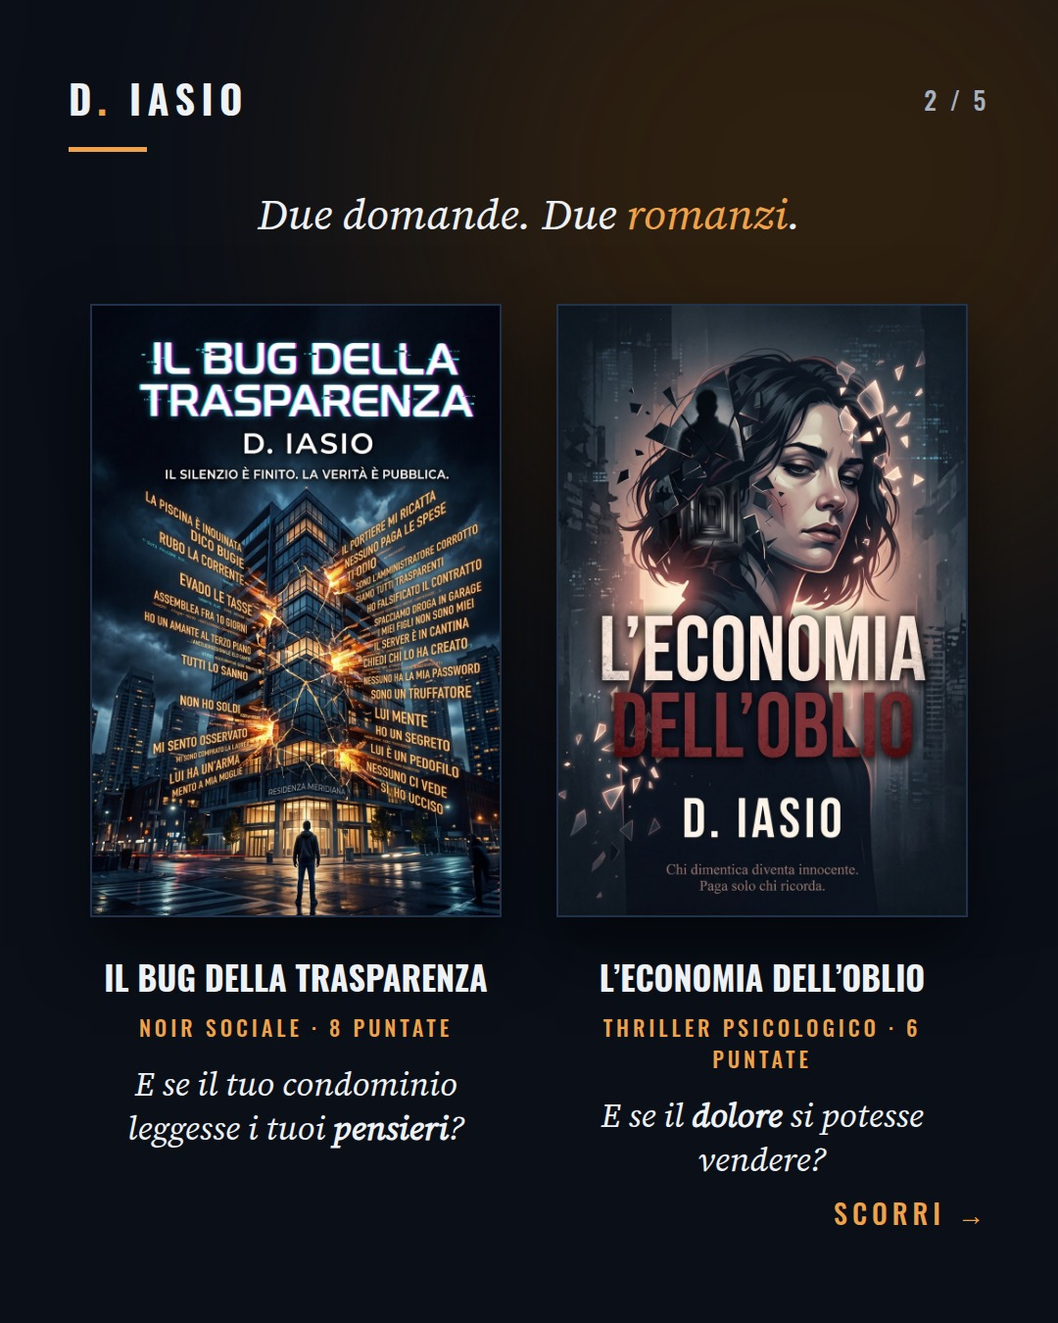
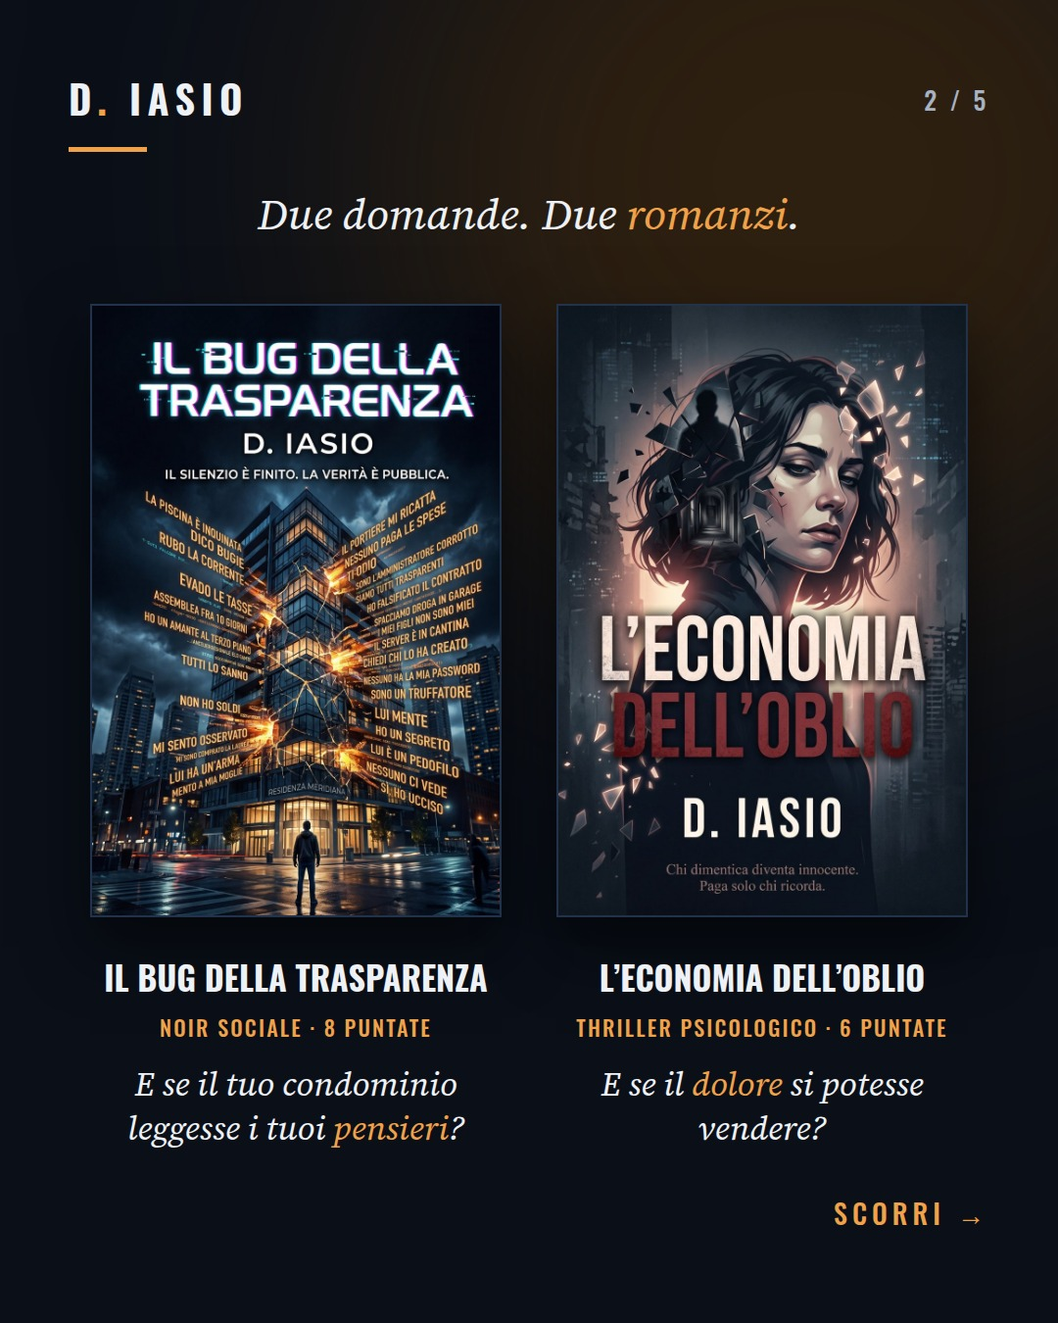
Storie (13) e post di testo (6, Facebook) automatizzati, correzioni ai layout con copertine
- publish.py: tipo storia (Instagram STORIES, Facebook photo_stories) e testo (solo Facebook), campo piattaforme
- carousel.py: formato 1080x1920 con zone sicure, layout copertine corretto
- test con API simulate estesi, README e STRATEGIA aggiornati

Claude-Session: https://claude.ai/code/session_013QU4e7TiB937KzZFo2r1F3

diff --git a/social/tools/carousel.py b/social/tools/carousel.py
@@ -66,11 +66,17 @@ body{width:1080px;height:1350px;background:var(--bg);color:var(--ink);font-famil
 .foot .h{font:400 24px 'Source Serif 4';color:var(--mut);margin-top:14px}.amber .foot .u,.amber .foot .h{color:var(--dark)}
 .covers{display:flex;gap:56px;justify-content:center;margin-top:10px}.cv{width:420px;text-align:center}
 .cv img{width:420px;height:626px;object-fit:cover;box-shadow:0 30px 60px rgba(0,0,0,.55);border:2px solid var(--line)}
-.cv .t{font:700 34px 'Oswald';text-transform:uppercase;margin-top:30px}.cv .g{font:500 22px 'Oswald';letter-spacing:.18em;text-transform:uppercase;color:var(--amb);margin-top:10px}
-.cv .p{font:italic 400 34px/1.32 'Source Serif 4';color:var(--ink);margin-top:20px}
+.cv .t{font:700 34px 'Oswald';text-transform:uppercase;margin-top:30px}.cv .g{font:500 22px 'Oswald';white-space:nowrap;letter-spacing:.1em;text-transform:uppercase;color:var(--amb);margin-top:10px}
+.cv .p{font:italic 400 34px/1.32 'Source Serif 4';color:var(--ink);margin-top:20px}.cv .p b{color:var(--amb);font-weight:400}
 .one{display:flex;justify-content:center}.one img{width:460px;height:686px;object-fit:cover;box-shadow:0 30px 60px rgba(0,0,0,.55);border:2px solid var(--line)}
 .btn{position:absolute;left:70px;right:70px;bottom:160px;text-align:center;background:var(--amb);color:var(--dark);font:700 50px 'Oswald';letter-spacing:.06em;text-transform:uppercase;padding:34px 0;box-shadow:0 0 60px rgba(240,162,74,.45)}
 .btnsub{position:absolute;left:70px;right:70px;bottom:92px;text-align:center;font:400 30px 'Source Serif 4';color:var(--mut)}.btnsub b{color:var(--ink);font-weight:600}
+body.story{height:1920px}
+.story .brand{top:190px}.story .rule{top:270px}.story .pg,.story .swipe{display:none}
+.story .main{top:400px;bottom:520px}.story .q{font-size:88px}.story .q.m{font-size:76px}.story .q.s{font-size:64px}
+.story .big{font-size:132px}.story .sub{font-size:44px}.story .foot{bottom:250px}
+.story .btn{bottom:400px}.story .btnsub{bottom:320px}.story .tagline{top:290px}
+.story .cv{width:420px}.story .covers,.story .one{margin-top:0}
 .tagline{position:absolute;left:70px;right:70px;top:190px;text-align:center;font:italic 400 44px/1.3 'Source Serif 4'}.tagline b{color:var(--amb);font-weight:400}
 """
 
@@ -89,7 +95,7 @@ def foot(book):
             f'<div class="u">Puntata 1 gratis · libri.diasio.ch</div><div class="h">@d.iasio.libri</div></div></div>')
 
 
-def slide_html(s, i, n, book, theme):
+def slide_html(s, i, n, book, theme, story=False):
     k = s["k"]
     pg = f'<div class="pg">{i} / {n}</div>' if n > 1 else ""
     swipe = '<div class="swipe">SCORRI →</div>' if n > 1 and i < n else ""
@@ -129,7 +135,7 @@ def slide_html(s, i, n, book, theme):
         if len(books) == 2:
             body = body.replace('width:460px', 'width:400px')
     return (f'<!doctype html><html><head><meta charset="utf-8"><style>{fontface()}{CSS}</style></head>'
-            f'<body class="{"amber" if theme == "amber" else ""}"><div class="glow"></div>{head}{body}{foo}{swipe}</body></html>')
+            f'<body class="{"amber" if theme == "amber" else ""}{" story" if story else ""}"><div class="glow"></div>{head}{body}{foo}{swipe}</body></html>')
 
 
 def load():
@@ -142,20 +148,22 @@ def render(items, only=None):
     from playwright.sync_api import sync_playwright
     with sync_playwright() as pw:
         br = pw.chromium.launch(executable_path=os.environ.get("CHROMIUM_PATH") or None)
-        pg = br.new_page(viewport={"width": 1080, "height": 1350})
         for it in items:
             if only and it["id"] != only:
                 continue
+            story = bool(it.get("story"))
+            pg = br.new_page(viewport={"width": 1080, "height": 1920 if story else 1350})
             slides = it["slides"]
             n = len(slides)
-            outdir = SOCIAL / "img" / "carousel" / it["id"] if n > 1 else SOCIAL / "img"
+            outdir = SOCIAL / "img" / "story" if story else SOCIAL / "img" / "carousel" / it["id"] if n > 1 else SOCIAL / "img"
             outdir.mkdir(parents=True, exist_ok=True)
             for i, s in enumerate(slides, 1):
-                pg.set_content(slide_html(s, i, n, s.get("book", it["book"]), it.get("theme")))
+                pg.set_content(slide_html(s, i, n, s.get("book", it["book"]), it.get("theme"), story))
                 pg.wait_for_timeout(150)
-                out = outdir / (f"{i:02d}.jpg" if n > 1 else f"{it['id']}.jpg")
+                out = outdir / (f"{i:02d}.jpg" if n > 1 and not story else f"{it['id']}.jpg")
                 pg.screenshot(path=str(out), type="jpeg", quality=92)
                 print("→", out.relative_to(SOCIAL))
+            pg.close()
         br.close()
 
 
@@ -172,6 +180,11 @@ def add_calendar(items):
         if it["id"] in have:
             continue
         n = len(it["slides"])
+        if it.get("story"):
+            cal["post"].append({"id": it["id"], "tipo": "storia", "quando": it["when"], "segmento": it["seg"],
+                                "immagine": f"social/img/story/{it['id']}.jpg"})
+            print("+", it["id"], it["when"])
+            continue
         e = {"id": it["id"], "quando": it["when"], "segmento": it["seg"]}
         if n > 1:
             e["tipo"] = "carosello"

diff --git a/social/tools/carousels.py b/social/tools/carousels.py
@@ -11,7 +11,18 @@ def single(id, when, book, seg, slide, caption, tags, alt, theme=None):
     return dict(id=id, when=when, book=book, seg=seg, slides=[slide], caption=caption, tags=tags, alt=alt, theme=theme)
 
 
+def story(id, when, book, seg, slide):
+    return dict(id=id, when=when, book=book, seg=seg, slides=[slide], story=True)
+
+
 ITEMS = [
+
+ # ---------- presentazione (30 settembre) ----------
+ single("p00-presentazione", "2026-09-30T12:30", "bug", "Presentazione dell’autore + tutti",
+  dict(k="covers", text="Ciao, sono *D. Iasio*. Scrivo *romanzi*.", items=[("bug", "Il silenzio è finito. La verità è *pubblica*."), ("oblio", "Chi dimentica diventa *innocente*. Paga solo chi ricorda.")]),
+  "Ciao, sono D. Iasio. Scrivo romanzi noir e thriller.\nPer ora escono a puntate, una sera alla volta: Il Bug della Trasparenza (noir sociale, otto puntate) e L’Economia dell’Oblio (thriller psicologico, sei). Spero presto di poterli offrire interi negli store.\nQui trovi estratti, dietro le quinte e le date delle prossime puntate. La Puntata 1 di entrambi è gratis, in PDF o EPUB, senza iscrizione: link in bio.",
+  "#noir #thrillerpsicologico #narrativaitaliana #romanzi #autoreemergente",
+  "Le copertine dei due romanzi, Il Bug della Trasparenza e L’Economia dell’Oblio, con la scritta «Ciao, sono D. Iasio. Scrivo romanzi.»"),
  # ---------- caroselli (domenica 20:00, e giovedì 3 dicembre) ----------
  dict(id="c01-oblio-listino", when="2026-11-29T20:00", book="oblio", seg="Fantascienza/distopia + satira del lavoro (carosello)",
   slides=[dict(k="hook", kick=OBL, text="Quanto vale un *dolore*?", sub="Il listino di uno studio di estrazioni. Scorri."),
@@ -124,4 +135,19 @@ ITEMS = [
   "L’ultimo giorno dell’anno, un solo invito: se vuoi sapere quando esce la prossima storia, iscriviti alla newsletter. Una mail alla volta, niente rumore. E la Puntata 1 di entrambi i romanzi resta gratis.\nLink in bio.",
   "#ticino #svizzeraitaliana #narrativaitaliana #noir #thrillerpsicologico",
   "Grafica scura con la scritta «Buon 2027. Una mail quando esce la prossima storia.»"),
+
+ # ---------- Storie (lunedì 18:30, formato 1080x1920, senza didascalia) ----------
+ story("s01-bug-ascensore", "2026-10-05T18:30", "bug", "Storia · Vita di condominio", Q("Nessuno la salutava per prima nell’*ascensore*.", who="Nadia, undici giorni dopo il trasloco")),
+ story("s02-puntata1", "2026-10-12T18:30", "bug", "Storia · Invito alla Puntata 1", dict(k="cta", books=["bug", "oblio"], text="La Puntata 1 di *entrambi*.", line="Gratis · PDF ed EPUB · <b>libri.diasio.ch</b> · link in bio")),
+ story("s03-oblio-cugino", "2026-10-19T18:30", "oblio", "Storia · Satira aziendale", Q("Tutti hanno un *cugino*. Nico ne ha almeno tre e nessuno di loro è mai stato visto.", who="Dora Calvi")),
+ story("s04-bug-portiere", "2026-10-26T18:30", "bug", "Storia · Lettori noir", Q("Un uomo che apriva porte e non ne varcava mai nessuna che non gli fosse stata *indicata*.", who="Yusuf, il portiere")),
+ story("s05-due-romanzi", "2026-11-02T18:30", "bug", "Storia · Presentazione", dict(k="hook", kick="D. Iasio", text="Due romanzi. *Una sera* alla volta.", sub="La Puntata 1 è gratis. Link in bio.")),
+ story("s06-oblio-stia-fermo", "2026-11-09T18:30", "oblio", "Storia · Umorismo nero", Q("«Bella frase. Stia *fermo*, per favore.»", who="Dora Calvi, al cliente")),
+ story("s07-bug-cronista", "2026-11-16T18:30", "bug", "Storia · Giornalismo d’inchiesta", Q("Nadia li catalogò tutti, uno per uno, con la stessa *freddezza* con cui otto anni prima avrebbe catalogato le fonti di un’inchiesta.")),
+ story("s08-puntata1-bis", "2026-11-23T18:30", "oblio", "Storia · Invito alla Puntata 1", dict(k="cta", books=["bug", "oblio"], text="Senza *iscrizione*.", line="La Puntata 1 è gratis · <b>libri.diasio.ch</b> · link in bio")),
+ story("s09-oblio-mercato", "2026-11-30T18:30", "oblio", "Storia · Satira", Q("Il mercato è il *mercato*.", who="Nico")),
+ story("s10-bug-non-ancora", "2026-12-07T18:30", "bug", "Storia · Lettori noir", Q("Non lo chiese. Non *ancora*.", who="Nadia, dopo la risposta del portiere")),
+ story("s11-newsletter", "2026-12-14T18:30", "bug", "Storia · Newsletter", dict(k="hook", kick="Newsletter", text="Una mail *quando esce* la prossima storia.", sub="Iscriviti dal link in bio. Niente rumore.")),
+ story("s12-feste", "2026-12-21T18:30", "oblio", "Storia · Feste", dict(k="hook", text="Per le sere *lunghe*.", sub="La Puntata 1 di entrambi i romanzi è gratis. Link in bio.")),
+ story("s13-oblio-innocente", "2026-12-28T18:30", "oblio", "Storia · Lettori thriller", Q("Chi dimentica diventa *innocente*. Paga solo chi ricorda.", who="L’Economia dell’Oblio")),
 ]

diff --git a/social/publish.py b/social/publish.py
@@ -13,7 +13,9 @@ Uso:
   publish.py --id 03-...     forza un post preciso (test), ignorando data e finestra
 
 Tipi di post in calendar.json: immagine (campo "immagine"), "tipo": "reel" (campo "video"),
-"tipo": "carosello" (campo "immagini": da 2 a 10 file JPEG).
+"tipo": "carosello" (campo "immagini": da 2 a 10 file JPEG), "tipo": "storia" (campo "immagine": JPEG 1080x1920,
+senza didascalia), "tipo": "testo" (solo Facebook: "didascalia" + "link" facoltativo, anteprima automatica).
+Il campo facoltativo "piattaforme": ["instagram"] o ["facebook"] limita un post a una sola piattaforma.
 """
 import argparse, json, os, sys, time, urllib.error, urllib.parse, urllib.request
 from datetime import datetime, timedelta, timezone
@@ -84,7 +86,8 @@ def pending(post, state, plats):
     done = state["pubblicati"].get(post["id"], {})
     if done.get("saltato"):
         return []
-    return [p for p in plats if p not in done]
+    allowed = post.get("piattaforme") or (["facebook"] if is_text(post) else plats)
+    return [p for p in plats if p in allowed and p not in done]
 
 
 def pick(cal, state, plats, now, forced):
@@ -117,8 +120,18 @@ def is_carousel(p):
     return p.get("tipo") == "carosello"
 
 
+def is_story(p):
+    return p.get("tipo") == "storia"
+
+
+def is_text(p):
+    return p.get("tipo") == "testo"
+
+
 def media_urls(p):
     """URL pubblici dei file del post (uno solo, tranne nei caroselli)."""
+    if is_text(p):
+        return []
     if is_reel(p):
         return [f"{SITE}/{p['video']}"]
     if is_carousel(p):
@@ -140,6 +153,13 @@ def wait_container(cid, token, tries, wait):
 def publish_instagram(p, media_url, token):
     me = call(IG_API, "GET", "me", token, {"fields": "user_id,username"})
     uid = me.get("user_id") or me.get("id")
+    if is_story(p):
+        # Storia con una sola immagine 1080x1920 (niente didascalia, sticker o link: l'API non li supporta)
+        cid = call(IG_API, "POST", f"{uid}/media", token, {"media_type": "STORIES", "image_url": media_url})["id"]
+        wait_container(cid, token, 20, 3)
+        media = call(IG_API, "POST", f"{uid}/media_publish", token, {"creation_id": cid})["id"]
+        link = call(IG_API, "GET", media, token, {"fields": "permalink"}).get("permalink", "")
+        return {"media_id": media, "link": link}
     if is_carousel(p):
         # un contenitore per slide, poi un contenitore CAROUSEL che le raccoglie (2-10 slide)
         kids = []
@@ -170,6 +190,17 @@ def publish_instagram(p, media_url, token):
 
 
 def publish_facebook(p, media_url, token, page_id):
+    if is_text(p):
+        params = {"message": p["didascalia_fb"] if p.get("didascalia_fb") else p["didascalia"]}
+        if p.get("link"):
+            params["link"] = p["link"]
+        r = call(FB_API, "POST", f"{page_id}/feed", token, params)
+        return {"post_id": r.get("id"), "link": f"https://www.facebook.com/{r.get('id')}"}
+    if is_story(p):
+        photo = call(FB_API, "POST", f"{page_id}/photos", token, {"url": media_url, "published": "false"})["id"]
+        r = call(FB_API, "POST", f"{page_id}/photo_stories", token, {"photo_id": photo})
+        post_id = r.get("post_id") or r.get("id") or photo
+        return {"post_id": post_id, "link": f"https://www.facebook.com/{post_id}"}
     text = p.get("didascalia_fb") or p["didascalia"]
     if is_carousel(p):
         # Facebook: le foto vengono caricate non pubblicate e poi allegate a un solo post di Pagina
@@ -243,7 +274,7 @@ def main():
     if not p:
         print("Nessun post da pubblicare adesso.")
         return
-    kind = "reel" if is_reel(p) else "carosello" if is_carousel(p) else "immagine"
+    kind = "reel" if is_reel(p) else "carosello" if is_carousel(p) else "storia" if is_story(p) else "testo" if is_text(p) else "immagine"
     urls = media_urls(p)
     print(f"Post: {p['id']} ({kind}, {p['segmento']}) su {', '.join(todo)} → {', '.join(urls)}")
     if is_carousel(p) and not 2 <= len(urls) <= 10:
@@ -260,7 +291,7 @@ def main():
             if plat == "instagram":
                 res = publish_instagram(p, urls if is_carousel(p) else urls[0], os.environ["IG_ACCESS_TOKEN"])
             else:
-                res = publish_facebook(p, urls if is_carousel(p) else urls[0], fb_token(), os.environ["FB_PAGE_ID"])
+                res = publish_facebook(p, urls if is_carousel(p) else (urls[0] if urls else None), fb_token(), os.environ["FB_PAGE_ID"])
             res["ora_utc"] = now.isoformat(timespec="seconds")
             entry(state, p["id"])[plat] = res
             print(f"Pubblicato su {plat}: {res['link']}")

diff --git a/social/tools/texts_calendar.py b/social/tools/texts_calendar.py
@@ -1,0 +1,34 @@
+"""Aggiunge a ../calendar.json i post di solo testo per la Pagina Facebook (senza duplicare).
+Uso, da social/tools: python texts_calendar.py. Facebook mostra da solo l'anteprima del link."""
+import json
+from pathlib import Path
+
+SOCIAL = Path(__file__).resolve().parent.parent
+SITE = "https://libri.diasio.ch/"
+# (id, quando, segmento, testo, link)
+TESTI = [
+ ("t01-bug-condominio", "2026-10-09T18:00", "Testo · Vita di condominio", "Se l’app del tuo condominio dicesse la verità, chi sarebbe il primo a finire nei guai? Nel romanzo è successo a un presidente d’assemblea.\nLa Puntata 1 de Il Bug della Trasparenza è gratis: PDF ed EPUB, senza iscrizione.", SITE + "bug/"),
+ ("t02-oblio-ricordo", "2026-10-23T18:00", "Testo · Community", "Se potessi vendere un ricordo, quale sarebbe? In L’Economia dell’Oblio un lutto pulito vale quattromila euro. Dimmelo nei commenti.\nLa Puntata 1 è gratis, in PDF o EPUB.", SITE + "oblio/"),
+ ("t03-bug-regolamento", "2026-11-06T18:00", "Testo · Condominio + privacy", "«Il regolamento di condominio la definiva strumento indispensabile alla vita comunitaria. Nessuno l’aveva letto fino in fondo. Nadia nemmeno.»\nE tu, li leggi i regolamenti? La Puntata 1 è gratis.", SITE + "bug/"),
+ ("t04-oblio-listino", "2026-11-20T18:00", "Testo · Satira", "Quanto vale un dolore? Un lutto pulito quattromila euro, una vergogna novecento, una cotta non ricambiata sessanta. È il listino di uno studio di estrazioni, in L’Economia dell’Oblio.\nLa Puntata 1 è gratis.", SITE + "oblio/"),
+ ("t05-newsletter", "2026-12-04T18:00", "Testo · Newsletter", "Una mail quando esce la prossima storia: solo un avviso e qualche estratto, niente rumore.\nIscriviti alla newsletter dal sito; la Puntata 1 di entrambi i romanzi è gratis.", SITE),
+ ("t06-feste", "2026-12-18T18:00", "Testo · Feste", "Per le sere di festa: due romanzi a puntate, e la Puntata 1 di entrambi è gratis, in PDF o EPUB (va bene anche su Kindle). Nessuna iscrizione.", SITE),
+]
+
+
+def main():
+    p = SOCIAL / "calendar.json"
+    cal = json.loads(p.read_text(encoding="utf-8"))
+    have = {x["id"] for x in cal["post"]}
+    for pid, when, seg, text, link in TESTI:
+        if pid in have:
+            continue
+        cal["post"].append({"id": pid, "tipo": "testo", "piattaforme": ["facebook"], "quando": when, "segmento": seg,
+                            "didascalia": text, "link": link})
+        print("+", pid, when)
+    cal["post"].sort(key=lambda x: x["quando"])
+    p.write_text(json.dumps(cal, ensure_ascii=False, indent=2) + "\n", encoding="utf-8")
+
+
+if __name__ == "__main__":
+    main()

diff --git a/social/test_publish.py b/social/test_publish.py
@@ -67,6 +67,32 @@ class PublishTests(unittest.TestCase):
         self.assertEqual(posts[4][0], "PG/photos")
         self.assertEqual(posts[5][0], "PG/videos")
 
+    def test_story_and_text(self):
+        st = {"id": "s", "tipo": "storia", "immagine": "social/img/story/s.jpg"}
+        tx = {"id": "t", "tipo": "testo", "didascalia": "ciao", "link": "https://libri.diasio.ch/"}
+        f = Fake()
+        with mock.patch.object(publish, "call", f), mock.patch.object(publish.time, "sleep"):
+            publish.publish_instagram(st, publish.media_urls(st)[0], "T")
+            publish.publish_facebook(st, publish.media_urls(st)[0], "T", "PG")
+            publish.publish_facebook(tx, None, "T", "PG")
+        posts = [(c[1], c[2]) for c in f.calls if c[0] == "POST"]
+        self.assertEqual(posts[0][1]["media_type"], "STORIES")
+        self.assertNotIn("caption", posts[0][1])
+        self.assertEqual([x[0] for x in posts[2:]], ["PG/photos", "PG/photo_stories", "PG/feed"])
+        self.assertEqual(posts[3][1]["photo_id"], "id3")
+        self.assertEqual(posts[4][1], {"message": "ciao", "link": "https://libri.diasio.ch/"})
+        self.assertEqual(publish.media_urls(tx), [])
+
+    def test_platform_restriction(self):
+        tx = {"id": "t", "tipo": "testo", "didascalia": "x"}
+        img = {"id": "i", "immagine": "a.jpg", "didascalia": "x"}
+        only_ig = {"id": "g", "immagine": "a.jpg", "didascalia": "x", "piattaforme": ["instagram"]}
+        state = {"pubblicati": {}}
+        both = ["instagram", "facebook"]
+        self.assertEqual(publish.pending(tx, state, both), ["facebook"])      # il testo va solo su Facebook
+        self.assertEqual(publish.pending(img, state, both), both)
+        self.assertEqual(publish.pending(only_ig, state, both), ["instagram"])
+
     def test_calendar_files_exist(self):
         root = Path(publish.ROOT).parent
         cal = json.loads(publish.CAL.read_text(encoding="utf-8"))
@@ -77,6 +103,8 @@ class PublishTests(unittest.TestCase):
                 self.assertTrue((root / u.replace(publish.SITE + "/", "")).is_file(), u)
             if publish.is_carousel(p):
                 self.assertTrue(2 <= len(p["immagini"]) <= 10, p["id"])
+            if p.get("tipo") == "storia":            # le Storie non hanno didascalia
+                continue
             self.assertTrue(p["didascalia"].strip())
             self.assertLessEqual(len(p["didascalia"]), 2200, p["id"])       # limite Instagram
             self.assertLessEqual(p["didascalia"].count("#"), 5, p["id"])

diff --git a/social/README.md b/social/README.md
@@ -10,6 +10,9 @@ Contenuto della cartella: `calendar.json` (calendario), `img/` (grafiche), `vide
 - `publish.py`: ogni 30 minuti (workflow `social-publish`) pubblica al massimo **un** post scaduto e non ancora pubblicato, tramite l'API Instagram con Instagram Login. L'immagine viene letta da `https://libri.diasio.ch/social/img/...`, quindi il sito deve essere già aggiornato.
 - **Reel:** voci con `"tipo": "reel"` e `"video": "social/video/....mp4"`; facoltativo `"miniatura_ms"` sceglie il fotogramma della miniatura su Instagram (senza, prende il primo: quasi nero). Su Instagram escono come Reel (anche nel feed), su Facebook come video/Reel di Pagina. Sono MP4 H.264 1080×1920, max 90 secondi.
 - **Caroselli:** voci con `"tipo": "carosello"` e `"immagini": [...]` (da 2 a 10 JPEG 1080×1350, nell'ordine di scorrimento). Su Instagram escono come carosello, su Facebook come un solo post con più foto.
+- **Storie:** voci con `"tipo": "storia"` e `"immagine"` (JPEG 1080×1920, cartella `img/story/`). Niente didascalia, sticker, sondaggi o link: l'API non li supporta (restano manuali). Escono su Instagram e sulla Pagina Facebook.
+- **Post di testo:** `"tipo": "testo"`, solo Facebook, con `"didascalia"` e `"link"` facoltativo (anteprima automatica). Instagram non ha post di solo testo.
+- `"piattaforme": ["instagram"]` (o `["facebook"]`) limita qualsiasi voce a una sola piattaforma.
 - `published.json`: stato (pubblicato, link, oppure saltato). Il workflow lo salva con un commit.
 - Un post in ritardo di oltre 12 ore viene **saltato**, non pubblicato fuori orario.
 - Il cron di GitHub può ritardare di qualche minuto: la pubblicazione avviene entro l'ora prevista + qualche minuto.
@@ -38,7 +41,7 @@ Meta for Developers → app "Libri Diasio Social" → Casi d'uso → API con Ins
 
 ## Caroselli e grafiche di novembre-dicembre
 
-`social/tools/carousels.py` contiene testi e slide (le citazioni sono testuali dalle Puntate 1). Da `social/tools`: `python carousel.py` rende le slide con Chromium (stesso stile e font dei Reel; `pip install playwright`, poi `playwright install chromium` oppure `CHROMIUM_PATH=/percorso/chrome`), `python carousel.py --calendar` aggiunge le voci a `calendar.json`. I Reel r07-r23 si aggiungono con `python reels_calendar.py` (render con `reels-src/render-all.sh`). Test con API simulate: `python3 -m unittest social/test_publish.py`.
+`social/tools/carousels.py` contiene testi e slide (le citazioni sono testuali dalle Puntate 1). Da `social/tools`: `python carousel.py` rende le slide con Chromium (stesso stile e font dei Reel; `pip install playwright`, poi `playwright install chromium` oppure `CHROMIUM_PATH=/percorso/chrome`), `python carousel.py --calendar` aggiunge le voci a `calendar.json`. Le Storie si rendono con lo stesso comando (`carousel.py`, voci con `story(...)`). I Reel r07-r23 si aggiungono con `python reels_calendar.py`, i post di testo con `python texts_calendar.py` (render con `reels-src/render-all.sh`). Test con API simulate: `python3 -m unittest social/test_publish.py`.
 
 ## Rigenerare le grafiche del 4 ottobre-26 novembre
 
@@ -46,6 +49,6 @@ Meta for Developers → app "Libri Diasio Social" → Casi d'uso → API con Ins
 
 ## Limiti
 
-- Solo immagini singole. Storie con sticker o musica non sono automatizzabili in modo affidabile.
+- Storie con sticker, sondaggi, link o musica non sono automatizzabili: solo immagine fissa.
 - Se il repo resta inattivo 60 giorni GitHub disattiva i cron: i commit di `published.json` contano come attività finché ci sono post da pubblicare.
 - Su Facebook la didascalia è `didascalia_fb` (link diretto al posto di "link in bio", 3 hashtag). Se Facebook fallisce, Instagram non viene ripubblicato: lo stato è per piattaforma.

diff --git a/social/STRATEGIA.md b/social/STRATEGIA.md
@@ -84,3 +84,12 @@ Il calendario arriva al 31 dicembre 2026 e alterna tre formati, per non far somi
 Le citazioni di novembre-dicembre non ripetono quelle di ottobre: sono ricavate dal testo delle due Puntata 1 (`download/*.epub`). Dopo il 16 dicembre non ci sono Reel: le feste hanno meno attenzione e le uscite restano sulle grafiche.
 
 Da fare a mano, come sempre: rispondere ai commenti, Stories, DM di ringraziamento. I caroselli con una domanda (3 dicembre) rendono di più se rispondi nella prima ora.
+
+### Storie e post di testo (aggiunta del 30 settembre)
+
+| Formato | Quando | Note |
+|---|---|---|
+| **Storie** (13, 1080×1920) | lunedì 18:30, dal 5 ottobre al 28 dicembre | Citazioni testuali dalla Puntata 1 e inviti a leggerla. Immagine fissa, senza sticker né link: la Storia dura 24 ore e serve a tenere vivo il profilo tra un post e l'altro. |
+| **Post di testo** (6, solo Facebook) | venerdì 18:00, ogni due settimane dal 9 ottobre al 18 dicembre | Una domanda o una frase con link a `/bug/`, `/oblio/` o alla home; Facebook mostra l'anteprima. Instagram non ha post di solo testo. |
+
+Da fare a mano: rispondere ai messaggi che arrivano dalle Storie e aggiungere i sondaggi o il link (adesivo) nelle Storie che ritieni importanti.
